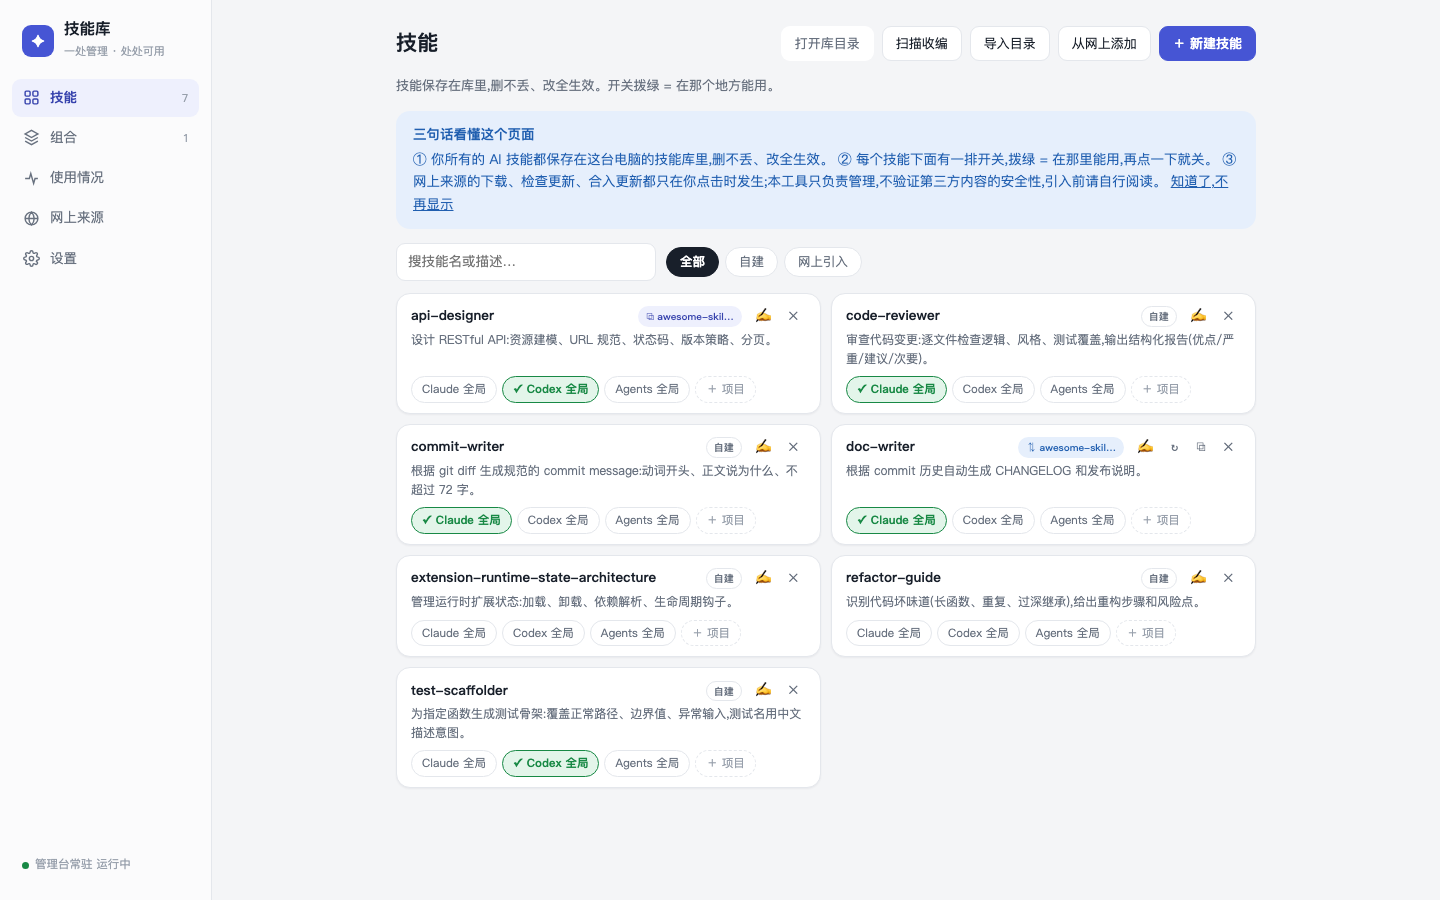
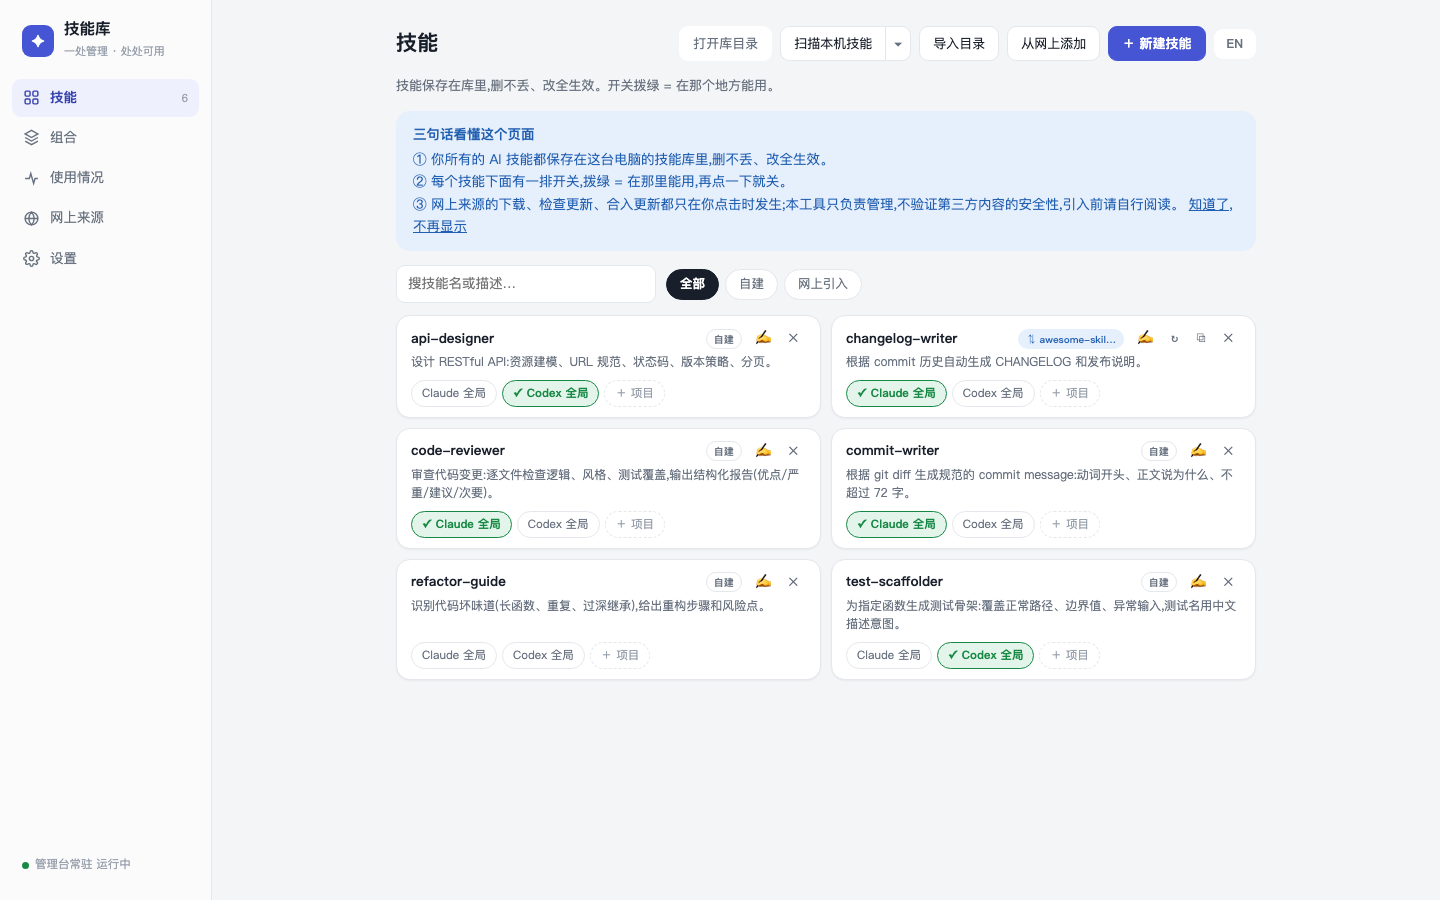
docs: refresh screenshots + mention bilingual UI and native dir picker
- Both READMEs' screenshots were from before i18n/scan-scope/native-picker
  landed (still showed "扫描收编", no language toggle). Retook them against
  a fresh instance with representative sample skills, at the same 1440x900.
- English README now gets its own screenshot (docs/screenshot-en.png)
  instead of sharing the Chinese one — showcases the actual bilingual UI.
- Added a bullet for the language toggle and a note that Import/Skills
  now supports a native directory picker, to both READMEs.

Also includes a small fix held back pending local verification: the
diverged-copy warning's English text said "1 standalone copies" for the
singular case; changed to "copy(ies)" to match the (s) convention already
used by its sibling messages.

site/screenshot.png (the skills.liangai.org landing page) is equally
stale but is a separate deploy path, not touched here.

diff --git a/webui.py b/webui.py
@@ -1488,7 +1488,7 @@ t_place_project:"Project PATH (.KIND)",few_more_suffix:" and more",
 w_broken_msg:"PLACE has COUNT broken skill link(s) (NAMES) — flip the toggle off to clear",
 w_unmanaged_msg:"PLACE has COUNT skill(s) not yet in the library (NAMES) — use \"SCANBTN\" to adopt",
 w_stale_msg:"Project PATH no longer exists — click \"CLEANBTN\" on the Usage page",
-w_diverged_msg:"PLACE has COUNT standalone copies that differ from the library:",
+w_diverged_msg:"PLACE has COUNT standalone copy(ies) that differ from the library:",
 ob_title:"This page in 3 sentences",ob_1:"① All your AI skills are stored locally on this machine. Changes propagate everywhere.",
 ob_2:"② Each skill has a row of toggles. Green = enabled there. Click again to disable.",
 ob_3:"③ Downloads, update checks, and merges only happen when you click. This tool manages only — it does not vet third-party content. Read before importing.",

diff --git a/README.md b/README.md
@@ -4,7 +4,7 @@
 
 [中文文档 →](README.zh-CN.md)
 
-![Skills Hub UI](docs/screenshot.png)
+![Skills Hub UI](docs/screenshot-en.png)
 
 Skills Hub keeps every skill (a folder with a `SKILL.md`) in one local library and links it into wherever your agents look for skills — Claude Code (`~/.claude/skills`), Codex (`~/.codex/skills`), generic Agents (`~/.agents/skills`), or any project directory. Edit once, effective everywhere; delete a link, the skill stays safe in the library.
 
@@ -12,6 +12,7 @@ Skills Hub keeps every skill (a folder with a `SKILL.md`) in one local library a
 - **Local-first** — a loopback-only HTTP server (`127.0.0.1:7799`). Nothing leaves your machine.
 - **Cross-platform** — macOS / Linux (symlinks), Windows (symlink → junction → copy fallback).
 - **Everything is undoable** — every change is committed to a local git history; deletes go to a trash folder, never `rm -rf`.
+- **Bilingual UI** — auto-detects Chinese/English from your browser, switch anytime from the top-right corner.
 
 ## Quick start
 
@@ -34,7 +35,7 @@ The UI needs three sentences to understand:
 
 | Tab | What you do there |
 |-----|-------------------|
-| Skills | Create, edit, import, adopt stray skills found on your machine; toggle where each one is enabled |
+| Skills | Create, edit, import, adopt stray skills found on your machine (native directory picker or type a path); toggle where each one is enabled |
 | Sets | Group skills you always use together; enable/disable a whole set in one click |
 | Usage | See what's enabled where (global roots and every project), clean up dead projects |
 | Sources | Clone third-party skill repos into an isolated `vendor/` area, cherry-pick skills as snapshots, and update them manually |

diff --git a/README.zh-CN.md b/README.zh-CN.md
@@ -12,6 +12,7 @@
 - **纯本地**——只监听 `127.0.0.1:7799`,任何数据不出机器。
 - **跨平台**——macOS / Linux 用软链接;Windows 依次尝试 symlink → junction → 副本。
 - **步步可回退**——每次变更自动进本地 git 历史;删除只进回收站,从不真删。
+- **中英双语界面**——自动按浏览器语言选中文/英文,右上角随时切换。
 
 ## 快速开始
 
@@ -34,7 +35,7 @@ Windows:双击 `start-windows.bat`(或 `py webui.py`)。
 
 | 标签页 | 用来做什么 |
 |-------|-----------|
-| 技能 | 新建、编辑、导入、收编本机散装技能;控制每个技能在哪里启用 |
+| 技能 | 新建、编辑、导入、收编本机散装技能(支持系统目录选择框或手动填路径);控制每个技能在哪里启用 |
 | 组合 | 把常一起用的技能存成一组,一键整组开关 |
 | 使用情况 | 每个地方(全局/各项目)各自开了什么,一键清理失效项目 |
 | 网上来源 | 把第三方技能仓库克隆进隔离区,挑着引入快照,手动跟进更新 |